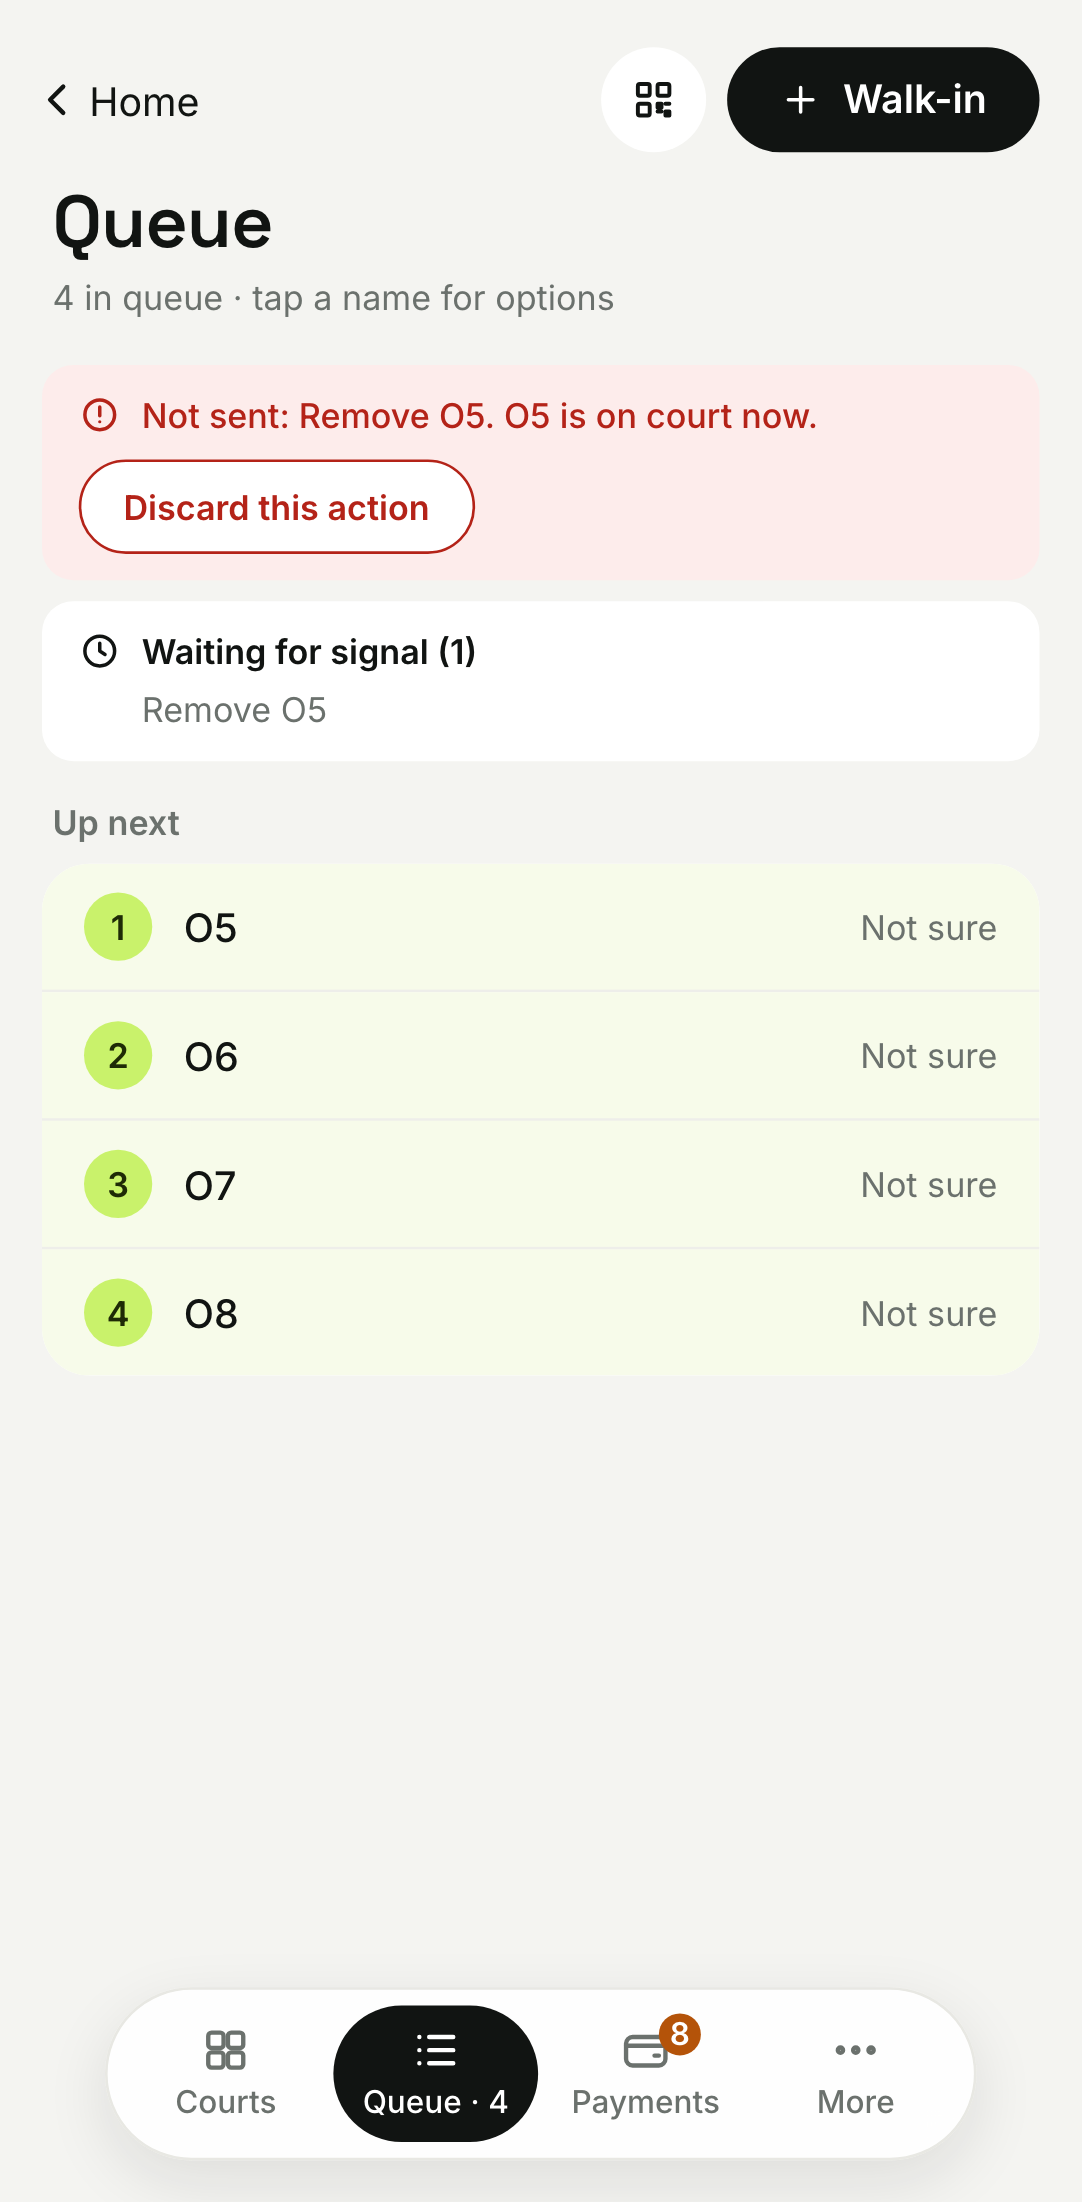
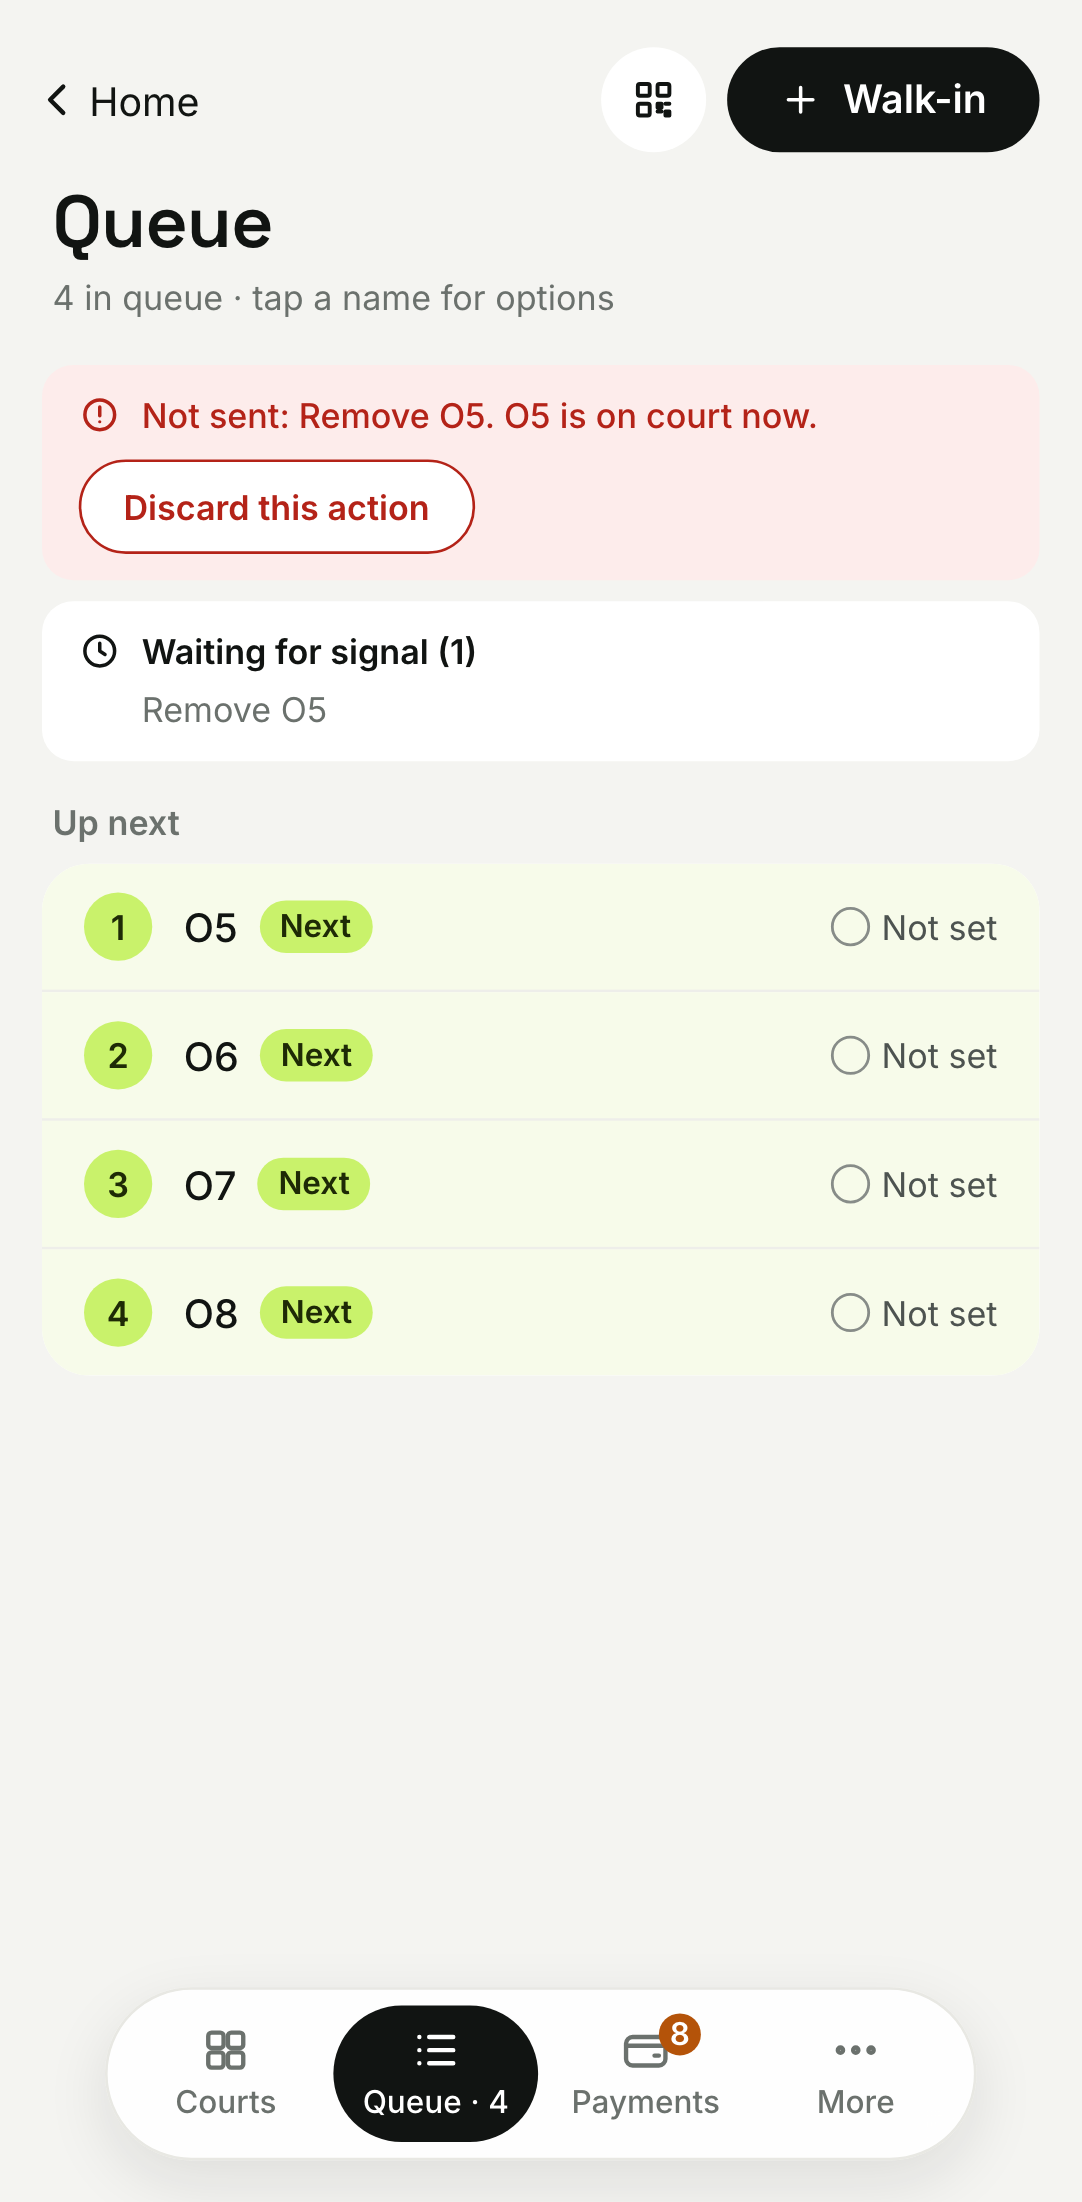
Phase 9.1b.5: tests and screenshots for Wait for me (D26)
- Unit: the setting choices, the Done banner while waiting (English and
  Taglish), the staying player state, per-court previews, Ready to call,
  the court card (Call / Call 2, staying chips, no-fit release), the New
  tag style.
- e2e wait-for-call.spec: Done leaves the court empty with Call and the
  next group; the player's phone rings only at Call; Ready to call after
  2 minutes (Playwright clock); winners shown as staying; Call 2; the
  More setting; a 2nd win after a delayed call sends everyone off.
- sessions.spec expects the new Session details row.
- Screenshots d26-*.png at 390x844; the full run re-saved the others.

diff --git a/e2e/wait-for-call.spec.ts b/e2e/wait-for-call.spec.ts
@@ -1,0 +1,139 @@
+import { expect, test, type Browser, type Page } from "@playwright/test";
+import { addWalkIn, banner, court, finishGame, onCourt, openMore, openTab, queueSection, SESSION_URL, startSession } from "./support/live";
+import { signInWithNewClub } from "./support/organizer";
+
+// D26: "Wait for me": Done frees the court, the organizer taps Call. Winners
+// stay on court as "staying". Phones ring only at Call. Screenshots at 390x844
+// go to docs/qa/img/d26-*.png.
+
+const SIZE = { width: 390, height: 844 };
+const shot = (page: Page, name: string) => page.screenshot({ path: `docs/qa/img/d26-${name}.png` });
+
+async function phone(browser: Browser) {
+  const context = await browser.newContext({ viewport: SIZE });
+  return context.newPage();
+}
+
+async function joinPath(page: Page): Promise<string> {
+  await page.getByRole("link", { name: "Show QR" }).click();
+  const path = new URL((await page.getByText(/\/j\/[A-Z2-9]{6}(?:[A-Z2-9]{2})?$/).textContent())!).pathname;
+  await page.goBack();
+  await expect(page).toHaveURL(SESSION_URL);
+  return path;
+}
+
+async function checkIn(player: Page, path: string, name: string) {
+  await player.goto(path);
+  await player.getByLabel("Name", { exact: true }).fill(name);
+  await player.getByRole("button", { name: "Join queue" }).click();
+  await expect(player.getByTestId("position")).toBeVisible();
+}
+
+test("Wait for me, All off: Done leaves the court empty with Call; the phone rings only at Call; Ready to call", async ({ page, browser }) => {
+  test.setTimeout(120_000);
+  await page.clock.install();
+  await page.setViewportSize(SIZE);
+  await signInWithNewClub(page, "d26-wait", "Wait Club");
+
+  // New clubs start on "Wait for me".
+  await page.getByRole("link", { name: "New session" }).click();
+  await expect(page.getByRole("group", { name: "Next game" }).getByRole("radio", { name: /^Wait for me/ })).toBeChecked();
+  await page.goBack();
+  await startSession(page, "Wait Night", { courts: 1, callMode: "Wait for me" });
+  const path = await joinPath(page);
+
+  for (const name of ["Ana", "Ben", "Cy", "Dee"]) await addWalkIn(page, name);
+  const pia = await phone(browser);
+  await checkIn(pia, path, "Pia");
+  for (const name of ["Eli", "Fe"]) await addWalkIn(page, name);
+
+  // Queue tab: "Next" is the only filled lime pill; Pia's "New" is a grey outline.
+  await openTab(page, "Queue");
+  const piaRow = queueSection(page, "After that").getByRole("listitem").filter({ hasText: "Pia" });
+  await expect(piaRow.getByTestId("new-tag")).toHaveText("New");
+  const next = queueSection(page, "Up next").getByRole("listitem").first().getByTestId("next-tag");
+  await expect(next).toHaveCSS("background-color", "rgb(201, 242, 107)");
+  await expect(piaRow.getByTestId("new-tag")).toHaveCSS("background-color", "rgba(0, 0, 0, 0)");
+  await shot(page, "queue-new-next");
+
+  await openTab(page, "Courts");
+  await court(page, "Court 1").getByRole("button", { name: "Call next 4" }).click();
+  await expect(onCourt(page, "Court 1")).toHaveText(["Ana", "Ben", "Cy", "Dee"]);
+
+  // Done: the result is recorded, nothing is called.
+  await finishGame(page, "Court 1", ["Ana", "Ben"]);
+  await expect(banner(page)).toHaveText(/Game #1 on Court 1 is done\. Won: Ana and Ben\. Tap Call on Court 1 when you're ready\./);
+  const c1 = court(page, "Court 1");
+  await expect(c1.getByText("Doubles · Empty")).toBeVisible();
+  await expect(c1.getByTestId("court-next")).toHaveText("Next: Pia, Eli, Fe, Ana");
+  await expect(c1.getByRole("button", { name: "Call next 4" })).toBeVisible();
+  await expect(c1).not.toHaveAttribute("data-ready-to-call");
+  // Pia is in the next group but nobody was called: her phone doesn't ring.
+  await expect(pia.locator('[data-state="queued"]')).toBeVisible();
+  await expect(pia.getByRole("alert").filter({ hasText: "You're up" })).toHaveCount(0);
+  await shot(page, "empty-court-call");
+
+  // Over 2 minutes with a group ready: a gentle "Ready to call" (no sound).
+  await page.clock.fastForward("02:30");
+  await expect(c1).toHaveAttribute("data-ready-to-call", "true");
+  await expect(c1.getByTestId("ready-to-call")).toHaveText("Ready to call");
+  await shot(page, "ready-to-call");
+
+  // Call: the D25 selection; Pia's phone rings now.
+  await c1.getByRole("button", { name: "Call next 4" }).click();
+  await expect(banner(page)).toHaveText(/Called to Court 1: Pia, Eli, Fe, Ana/);
+  await expect(onCourt(page, "Court 1")).toHaveText(["Pia", "Eli", "Fe", "Ana"]);
+  await expect(pia.getByRole("alert").filter({ hasText: "You're up" })).toBeVisible({ timeout: 5_000 });
+  await pia.context().close();
+});
+
+test("Wait for me, Winners stay: winners stay as 'staying', Call 2 fills the other side; the More setting", async ({ page, browser }) => {
+  test.setTimeout(120_000);
+  await page.setViewportSize(SIZE);
+  await signInWithNewClub(page, "d26-stay", "Stay Club");
+  await startSession(page, "Stay Night", { courts: 1, winnersStay: true, callMode: "Wait for me" });
+  const path = await joinPath(page);
+
+  const wes = await phone(browser);
+  await checkIn(wes, path, "Wes");
+  for (const name of ["Ana", "Ben", "Cy", "Dee", "Eli"]) await addWalkIn(page, name);
+  await openTab(page, "Courts");
+  await court(page, "Court 1").getByRole("button", { name: "Call next 4" }).click();
+  await expect(onCourt(page, "Court 1")).toHaveText(["Wes", "Ana", "Ben", "Cy"]);
+  await expect(wes.getByRole("alert").filter({ hasText: "You're up" })).toBeVisible({ timeout: 5_000 });
+  await wes.getByRole("button", { name: "On my way" }).click();
+
+  await finishGame(page, "Court 1", ["Wes", "Ana"]);
+  await expect(banner(page)).toHaveText(/Won: Wes and Ana\. Wes and Ana stay on\. Tap Call on Court 1 when you're ready\./);
+  const c1 = court(page, "Court 1");
+  await expect(c1.locator('[data-chip="staying"]')).toHaveText(["Wes· staying", "Ana· staying"]);
+  await expect(onCourt(page, "Court 1")).toHaveText(["Wes, staying", "Ana, staying"]);
+  await expect(c1.getByText("Doubles · Waiting for Call")).toBeVisible();
+  await expect(c1.getByTestId("court-next")).toHaveText("Wes + Ana stay on · Next: Dee, Eli");
+  await expect(c1.getByRole("button", { name: /^Make it/ })).toHaveCount(0);
+  // Wes's phone: he stays on; no ring until Call.
+  await expect(wes.getByRole("heading", { level: 1, name: "You won! Stay on Court 1" })).toBeVisible({ timeout: 5_000 });
+  await expect(wes.getByTestId("staying")).toContainText("Left side · with Ana");
+  await shot(page, "winners-staying");
+  await shot(wes, "player-staying");
+
+  // Call 2: Dee and Eli join on the other side; the phone rings for the new game.
+  await c1.getByRole("button", { name: "Call 2 · Court 1" }).click();
+  await expect(onCourt(page, "Court 1")).toHaveText(["Wes", "Ana", "Dee", "Eli"]);
+  await expect(wes.getByRole("alert").filter({ hasText: "You're up" })).toBeVisible({ timeout: 5_000 });
+
+  // More: Next game, while live.
+  const more = await openMore(page);
+  const setting = more.getByRole("group", { name: "Next game" });
+  await expect(setting.getByRole("radio", { name: /^Wait for me/ })).toBeChecked();
+  await setting.getByRole("radio", { name: /^Call next automatically/ }).check();
+  await expect(banner(page)).toHaveText(/Next game: Call next automatically\. It applies from the next Done\./);
+  await page.keyboard.press("Escape");
+
+  // Now auto-call. A 2nd win in a row after the delayed call: everyone goes off (winners first),
+  // and the next group is called at Done (Fair line: Ben, Cy, then Wes and Ana).
+  await finishGame(page, "Court 1", ["Wes", "Ana"]);
+  await expect(banner(page)).toHaveText(/Called: Ben, Cy, Wes, Ana/);
+  await expect(onCourt(page, "Court 1")).toHaveText(["Ben", "Cy", "Wes", "Ana"]);
+  await wes.context().close();
+});

diff --git a/src/lib/queue/preview.test.ts b/src/lib/queue/preview.test.ts
@@ -2,7 +2,7 @@ import { describe, expect, it } from "vitest";
 import { en, fil } from "@/lib/i18n/dictionary";
 import { courtsLineup } from "@/lib/player/courts";
 import { queueInfo } from "@/lib/player/state";
-import { bandText, explainCall, nextPreview, noGroupText, parsePreview, playerBand, predictedIds, type QueuePreview } from "./preview";
+import { bandText, courtPreview, explainCall, nextPreview, noGroupText, parsePreview, playerBand, predictedIds, readyToCall, type QueuePreview } from "./preview";
 
 const preview: QueuePreview = {
   preset: "mixed",
@@ -85,5 +85,18 @@ describe("D25 previews and call notes (presentation only)", () => {
     ]);
     expect(parsePreview({ preset: "mixed" })).toEqual({ preset: "mixed", formats: {}, courts: {} });
     expect(parsePreview(null)).toBeNull();
+  });
+
+  it("D26: a court with staying winners uses its own preview; Ready to call after 2 minutes with a group", () => {
+    const withCourt: QueuePreview = { ...preview, courts: { c9: { status: "ok", group: [{ id: "x", name: "X", skill: 3 }, { id: "y", name: "Y", skill: 3 }] } } };
+    expect(courtPreview(withCourt, { id: "c9", format: "doubles", staying: ["a", "b"] })?.group).toHaveLength(2);
+    expect(courtPreview(withCourt, { id: "c9", format: "doubles", staying: [] })?.group).toHaveLength(4);
+    expect(courtPreview(null, { id: "c9", format: "doubles" })).toBeNull();
+    const now = Date.parse("2026-11-27T10:00:00Z");
+    const ok = withCourt.formats.doubles!;
+    expect(readyToCall("2026-11-27T09:57:59Z", ok, now)).toBe(true);
+    expect(readyToCall("2026-11-27T09:58:30Z", ok, now)).toBe(false);
+    expect(readyToCall(null, ok, now)).toBe(false);
+    expect(readyToCall("2026-11-27T09:50:00Z", withCourt.formats.singles!, now)).toBe(false);
   });
 });

diff --git a/src/lib/queue/messages.test.ts b/src/lib/queue/messages.test.ts
@@ -64,6 +64,16 @@ describe("finishedBanner (after Done)", () => {
     expect(finishedBanner(en, { ...base, next: null })).toBe("Game #1 on Court 2 is done. Court 2 stays empty; not enough players waiting.");
   });
 
+  it("D26 Wait for me: nothing called; says who stays on and to tap Call (English and Taglish)", () => {
+    expect(finishedBanner(en, { ...base, winners: ["Ana", "Ben"], next: null, waiting: { staying: ["Ana", "Ben"] } })).toBe(
+      "Game #1 on Court 2 is done. Won: Ana and Ben. Ana and Ben stay on. Tap Call on Court 2 when you're ready.",
+    );
+    expect(finishedBanner(en, { ...base, next: null, waiting: { staying: [] } })).toBe("Game #1 on Court 2 is done. Tap Call on Court 2 when you're ready.");
+    expect(finishedBanner(fil, { ...base, winners: ["Ana", "Ben"], next: null, waiting: { staying: ["Ana", "Ben"] } })).toBe(
+      "Tapos ang Laro #1 sa Court 2. Panalo: Ana at Ben. Mananatili sina Ana at Ben. I-tap ang Call sa Court 2 kapag handa na.",
+    );
+  });
+
   it("samePlayers ignores order but not size", () => {
     expect(samePlayers(["a", "b"], ["b", "a"])).toBe(true);
     expect(samePlayers(["a", "b"], ["a", "b", "c"])).toBe(false);

diff --git a/src/lib/club/options.test.ts b/src/lib/club/options.test.ts
@@ -1,6 +1,6 @@
 import { describe, expect, it } from "vitest";
 import { en, fil } from "@/lib/i18n/dictionary";
-import { allOffDescription, matchmakingChoices, rotationChoices } from "./options";
+import { allOffDescription, callModeChoices, callModeLabel, matchmakingChoices, rotationChoices } from "./options";
 
 describe("QA-13: 'All off' says who leaves, by the courts' formats", () => {
   it("doubles: All four; singles: Both; mixed or unknown: Everyone on court", () => {
@@ -38,5 +38,16 @@ describe("D25: who plays together", () => {
     expect(same?.note).toBe(
       "Puwedeng maghintay ang court hanggang may grupong pareho ang level. Mas bagay ang Halo-halo sa karamihan ng session.",
     );
+  });
+});
+
+describe("D26: the Next game setting", () => {
+  it("Wait for me first, then Call next automatically, in English and Taglish", () => {
+    expect(callModeChoices(en).map((c) => [c.value, c.label])).toEqual([
+      ["wait", "Wait for me"],
+      ["auto_call", "Call next automatically"],
+    ]);
+    expect(callModeLabel("wait", fil)).toBe("Hintayin ako");
+    expect(callModeLabel("auto_call", fil)).toBe("Kusang tawagin ang susunod");
   });
 });

diff --git a/src/app/s/[id]/_components/QueueView.test.tsx b/src/app/s/[id]/_components/QueueView.test.tsx
@@ -111,4 +111,16 @@ describe("Queue tab (D25)", () => {
     await userEvent.click(within(sheet).getByRole("button", { name: "Save level" }));
     expect(frame.act).toHaveBeenCalledWith("set_player_level", { playerId: "b", level: "4" }, "Ben: Level 4");
   });
+
+  it("'Next' is the only filled lime pill; 'New' (a recent phone check-in) is a grey outline", () => {
+    const fresh: LiveState = { ...state, queue: state.queue.map((p, i) => (i === 0 ? { ...p, isWalkIn: false, joinedAt: new Date().toISOString() } : p)) };
+    render(<QueueView state={fresh} rules={{ payFirst: false, fee: 0 }} sessionId="s1" />);
+    const ana = screen.getByRole("button", { name: /Ana/ });
+    const next = within(ana).getByTestId("next-tag");
+    const fresh_ = within(ana).getByTestId("new-tag");
+    expect(next).toHaveClass("bg-accent");
+    expect(fresh_).toHaveTextContent("New");
+    expect(fresh_).toHaveClass("border", "border-field", "text-secondary");
+    expect(fresh_.className).not.toMatch(/\bbg-/);
+  });
 });

diff --git a/src/lib/player/state.test.ts b/src/lib/player/state.test.ts
@@ -55,6 +55,13 @@ describe("pickPwestoState", () => {
     });
   });
 
+  it("D26: a winner staying on an empty court (no game yet) sees where they stay and with whom", () => {
+    const staying = [q("a", "playing", 0), q("me", "playing", 0), q("d", "queued", 3)];
+    expect(
+      pickPwestoState({ sessionStatus: "live", me: me("playing"), players: staying, games: [], staying: [{ courtLabel: "Court 1", playerIds: ["me", "a"] }] }),
+    ).toEqual({ kind: "staying", courtLabel: "Court 1", partnerName: "A" });
+  });
+
   it("paused keeps the place number", () => {
     const paused = players.map((p) => (p.id === "me" ? { ...p, status: "paused" } : p));
     expect(pickPwestoState({ sessionStatus: "live", me: me("paused"), players: paused, games: [] })).toEqual({ kind: "paused", position: 2 });

diff --git a/e2e/support/live.ts b/e2e/support/live.ts
@@ -100,7 +100,7 @@ export async function finishGame(page: Page, label: string, winners?: string[]) 
 export function banner(page: Page) {
   return page
     .getByRole("status")
-    .filter({ hasText: /Called to|is done\.|is in the queue|is paused|is back in their place|was removed|replaced .* on|is now (singles|doubles)|is back on|play again on|After a game:|swapped sides|is now Level|Who plays together:/ });
+    .filter({ hasText: /Called to|is done\.|is in the queue|is paused|is back in their place|was removed|replaced .* on|is now (singles|doubles)|is back on|play again on|After a game:|swapped sides|is now Level|Who plays together:|Next game:/ });
 }
 
 export function court(page: Page, label: string) {

diff --git a/e2e/sessions.spec.ts b/e2e/sessions.spec.ts
@@ -76,6 +76,8 @@ test.describe("sessions (organizer)", () => {
       "Court 1: Doubles · Court 2: Doubles · Court 3: Doubles",
       "15 points",
       "Winners stay",
+      // D26: the next game (new clubs default to Wait for me).
+      "Wait for me",
       // D25: who plays together (new clubs default to Mixed).
       "Mixed",
       "Yes",
